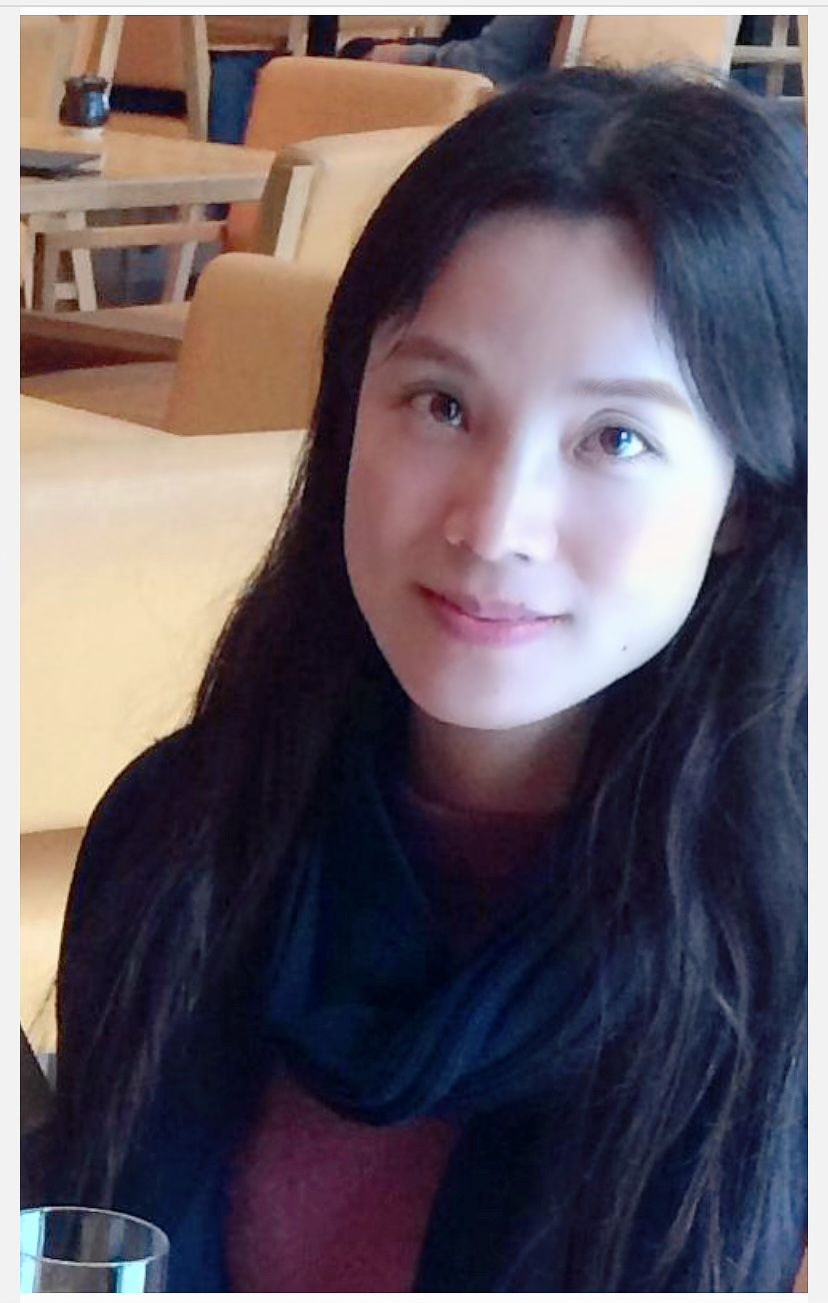
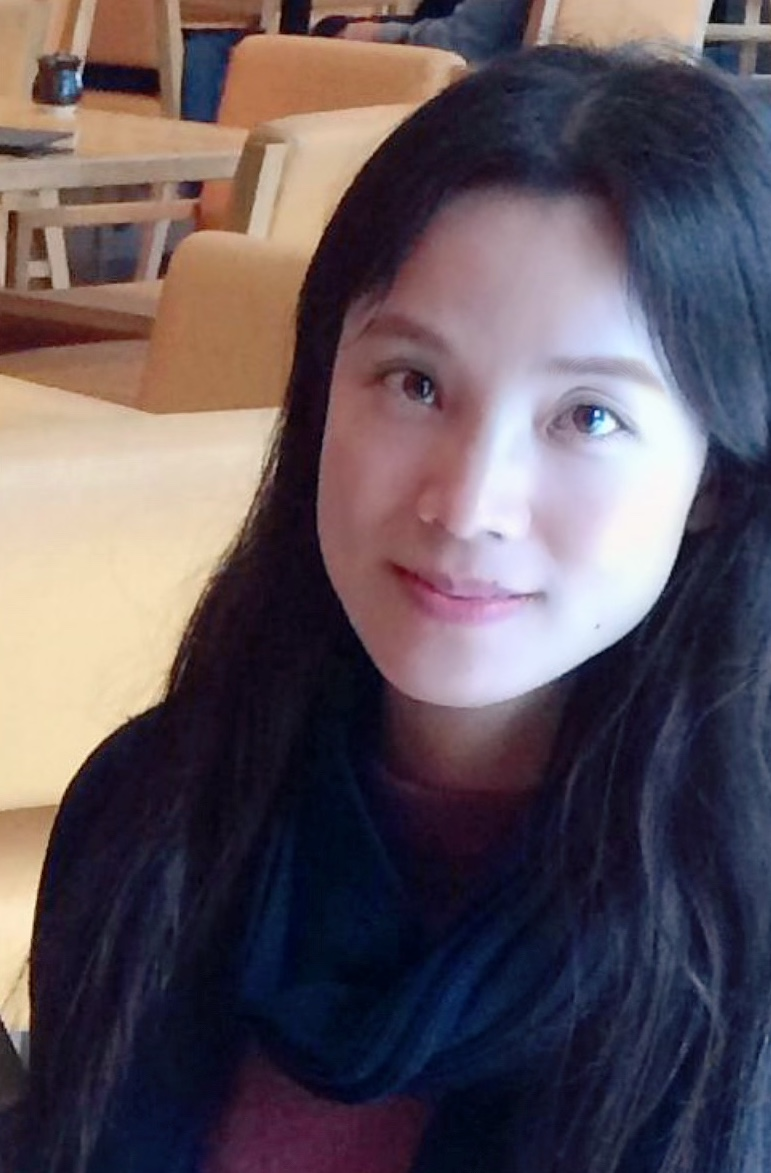
work on about us page

diff --git a/src/routes/AboutUs.js b/src/routes/AboutUs.js
@@ -6,7 +6,7 @@ import Header from "../components/Header";
 import adrianaSource from "../assets/adriana.png";
 import humaSource from "../assets/huma.jpg";
 import nataliaSource from "../assets/natalia.jpg";
-import jennySource from "../assets/jenny2.jpeg";
+import jennySource from "../assets/jenny.jpeg";
 
 const AboutUs = () => {
   return (
